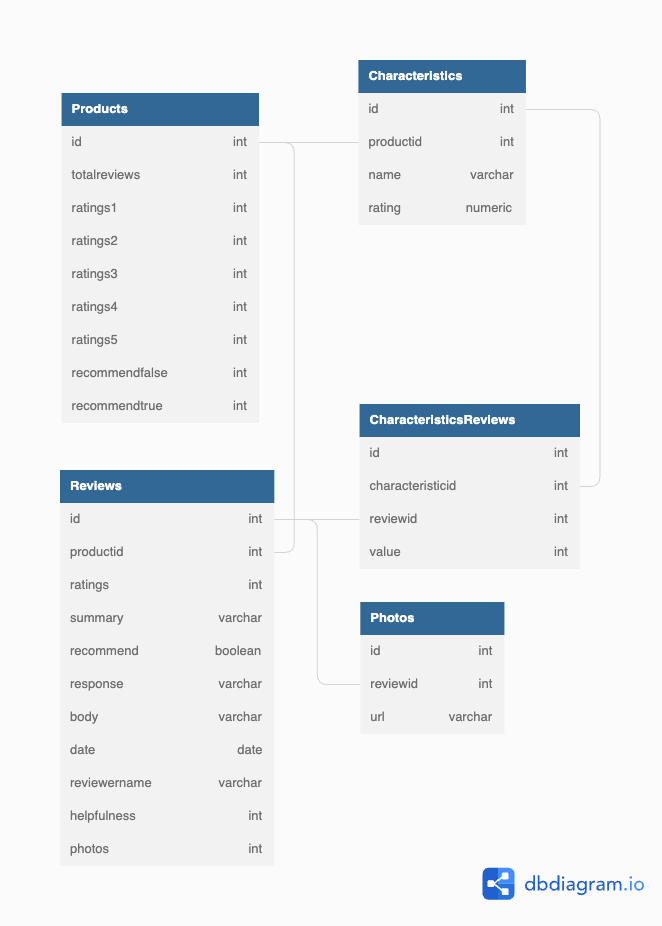
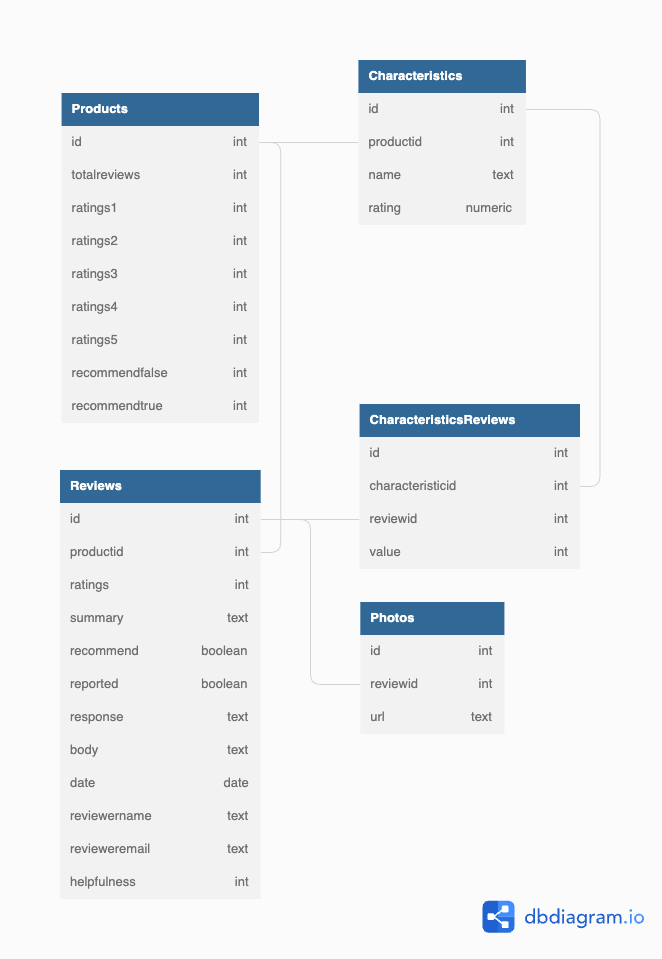
initial setup of the pg ETL process

diff --git a/database/sql/pgETL.js b/database/sql/pgETL.js
@@ -1,0 +1,117 @@
+const pool = require('./config.js')
+const events = require('events')
+const fs = require('fs')
+const readline = require('readline')
+const path = require('path')
+const reviewsPath = '../../data/sample/reviews.sample.csv'
+const reviewsphotosPath = '../../data/sample/reviews_photos.sample.csv'
+const charPath = '../../data/sample/characteristics.sample.csv'
+const charReviewPath = '../../data/sample/characteristic_reviews.sample.csv'
+
+// read csv files line by line
+const csvimport = async function (pginsert, csvpath, tablename) {
+  try {
+    const rl = readline.createInterface({
+      input: fs.createReadStream(path.join(__dirname, csvpath)),
+      crlfDelay: Infinity
+    });
+    let fl = true
+
+    rl.on('line', (line) => {
+      if (fl) {
+        fl = false
+      } else {
+        const data = line.split(',')
+          pginsert(data);
+      }
+    });
+
+    await events.once(rl, 'close')
+
+    console.log(`readfile ${tablename} line by line complete`);
+  } catch (err) {
+    console.error(err)
+  }
+}
+
+//pg transform and load into db
+const reviewInsert = (data) => {
+  const insertProd = {
+    text: 'INSERT INTO products(id) VALUES ($1) ON CONFLICT DO NOTHING',
+    values: [data[1]]
+  }
+  pool
+    .query(insertProd)
+    .then(() => {
+      const insertReview = {
+        text: 'INSERT INTO reviews(id, productid, ratings, summary, recommend, \
+          reported, response, body, date, reviewername, revieweremail, helpfulness) \
+          VALUES ($1, $2, $3, $4, $5, $6, $7, $8, to_timestamp($9), $10, $11, $12) \
+          ON CONFLICT DO NOTHING',
+        values: [data[0], data[1], data[2], data[4], data[6], data[7], data[10],
+          data[5], data[3]/1000.0, data[8], data[9], data[11]]
+      }
+      pool
+        .query(insertReview)
+        .then((res) => {})
+        .catch(e => console.error(e.stack))
+    })
+    .catch(e => console.error(e.stack))
+}
+
+const importreviews = () => {
+  csvimport(reviewInsert, reviewsPath, 'reviews')
+}
+
+const photoInsert = (data) => {
+  const insertPhotos = {
+    text: 'INSERT INTO photos(id, reviewid, url) VALUES ($1, $2, $3) ON CONFLICT DO NOTHING',
+    values: data
+  }
+  pool
+    .query(insertPhotos)
+    .then(() => {})
+    .catch(e => console.error(e.stack))
+}
+
+const importphotos = () => {
+  csvimport(photoInsert, reviewsphotosPath, 'review_photos')
+}
+
+const charInsert = (data) => {
+  const insertChar = {
+    text: 'INSERT INTO characteristics(id, productid, name) VALUES ($1, $2, $3) \
+     ON CONFLICT DO NOTHING',
+    values: [data[0], data[1], data[2]]
+  }
+  pool
+    .query(insertChar)
+    .then(() => {})
+    .catch(e => console.error(e.stack))
+}
+
+const importchar = () => {
+  csvimport(charInsert, charPath, 'characteristics')
+}
+
+const charReviewInsert = (data) => {
+  const insertCharReview = {
+    text: 'INSERT INTO characteristicsreviews(id, characteristicid, reviewid, value) \
+    VALUES ($1, $2, $3, $4) ON CONFLICT DO NOTHING',
+    values: data
+  }
+  pool
+    .query(insertCharReview)
+    .then(() => {})
+    .catch(e => console.error(e.stack))
+}
+
+const importcharReview = () => {
+  csvimport(charReviewInsert, charReviewPath, 'characteristic_reviews')
+}
+
+module.exports.importreviews = importreviews
+module.exports.importphotos = importphotos
+module.exports.importchar = importchar
+module.exports.importcharReview = importcharReview
+

diff --git a/database/nosql/mongoDBSchema.js b/database/nosql/mongoDBSchema.js
@@ -1,13 +1,13 @@
 const mongoose = require('mongoose');
 mongoose.connect('mongodb://localhost/fetcher');
 
-let PhotosSchema = mongoose.Schema({
-  id: Number,
+let PhotoSchema = mongoose.Schema({
+  _id: Number,
   url: String
 });
 
-let ReviewsSchema = mongoose.Schema({
-  review_id: Number,
+let ReviewSchema = mongoose.Schema({
+  _id: Number,
   rating: Number,
   summary: String,
   recommend: Boolean,
@@ -15,13 +15,13 @@ let ReviewsSchema = mongoose.Schema({
   body: String,
   date: Date,
   reviewer_name: String,
+  reviewer_email: String,
   helpfulness: Number,
   photos: [PhotosSchema]
 });
 
-let ProductReviewsSchema = mongoose.Schema({
+let ProductSchema = mongoose.Schema({
   _id: Number,
-  product: Number,
   reviews: [ReviewsSchema],
   ratings: {
     ratings1: Number,
@@ -46,14 +46,29 @@ let ProductReviewsSchema = mongoose.Schema({
   }
 });
 
-let ProductReviewsSchema = mongoose.model('ProductReviewsSchema', ProductReviewsSchema);
+let Product = mongoose.model('Product', ProductSchema, 'reviews');
+let Review = mongoose.model('Review', ReviewSchema, 'reviews');
+let Photo = mongoose.model('Photo', PhotoSchema, 'reviews');
 
-let readRatingsAndReviews = function (productid, cb) {
-  ProductReviewsSchema.findOne({_id: productid}, (err, res) => {
+let readReview = function (productid, cb) {
+  Product.findOne({_id: productid}, (err, res) => {
     if (err) {
-      cb(`error: ${err}`);
+      cb(err, null);
     } else {
-      cb(res)
+      cb(null, res)
+    }
+  })
+}
+
+let createProduct = function (productid, cb) {
+
+}
+
+let writeReview = function (productid, review, cb) {
+  Product.findOne({_id: productid}, (err, res) => {
+    if (err) {
+      cb(err, null);
+    } else {
     }
   })
 }

diff --git a/app.js b/app.js
@@ -3,7 +3,8 @@ const express = require('express')
 const app = express()
 
 //PostgreSQL database
-const db = require('./database/sql')
+const db = require('./database/sql/index.js')
+const pgETL = require('./database/sql/pgETL.js')
 
 // //MongoDB database
 // const db = require('./database/nosql/mongoDBSchema.js')
@@ -14,6 +15,26 @@ app.use(express.urlencoded({extended: true}))
 
 app.get('/', (req, res) => {
   res.send('Hello World!')
+})
+
+app.post('/importreviewcsv', (req, res) => {
+  pgETL.importreviews();
+  res.send('imported reviews csv')
+})
+
+app.post('/importphotoscsv', (req, res) => {
+  pgETL.importphotos();
+  res.send('imported photos csv')
+})
+
+app.post('/importcharcsv', (req, res) => {
+  pgETL.importchar();
+  res.send('imported characteristics csv')
+})
+
+app.post('/importcharreviewcsv', (req, res) => {
+  pgETL.importcharReview();
+  res.send('imported characteristics reviews csv')
 })
 
 module.exports = app;
